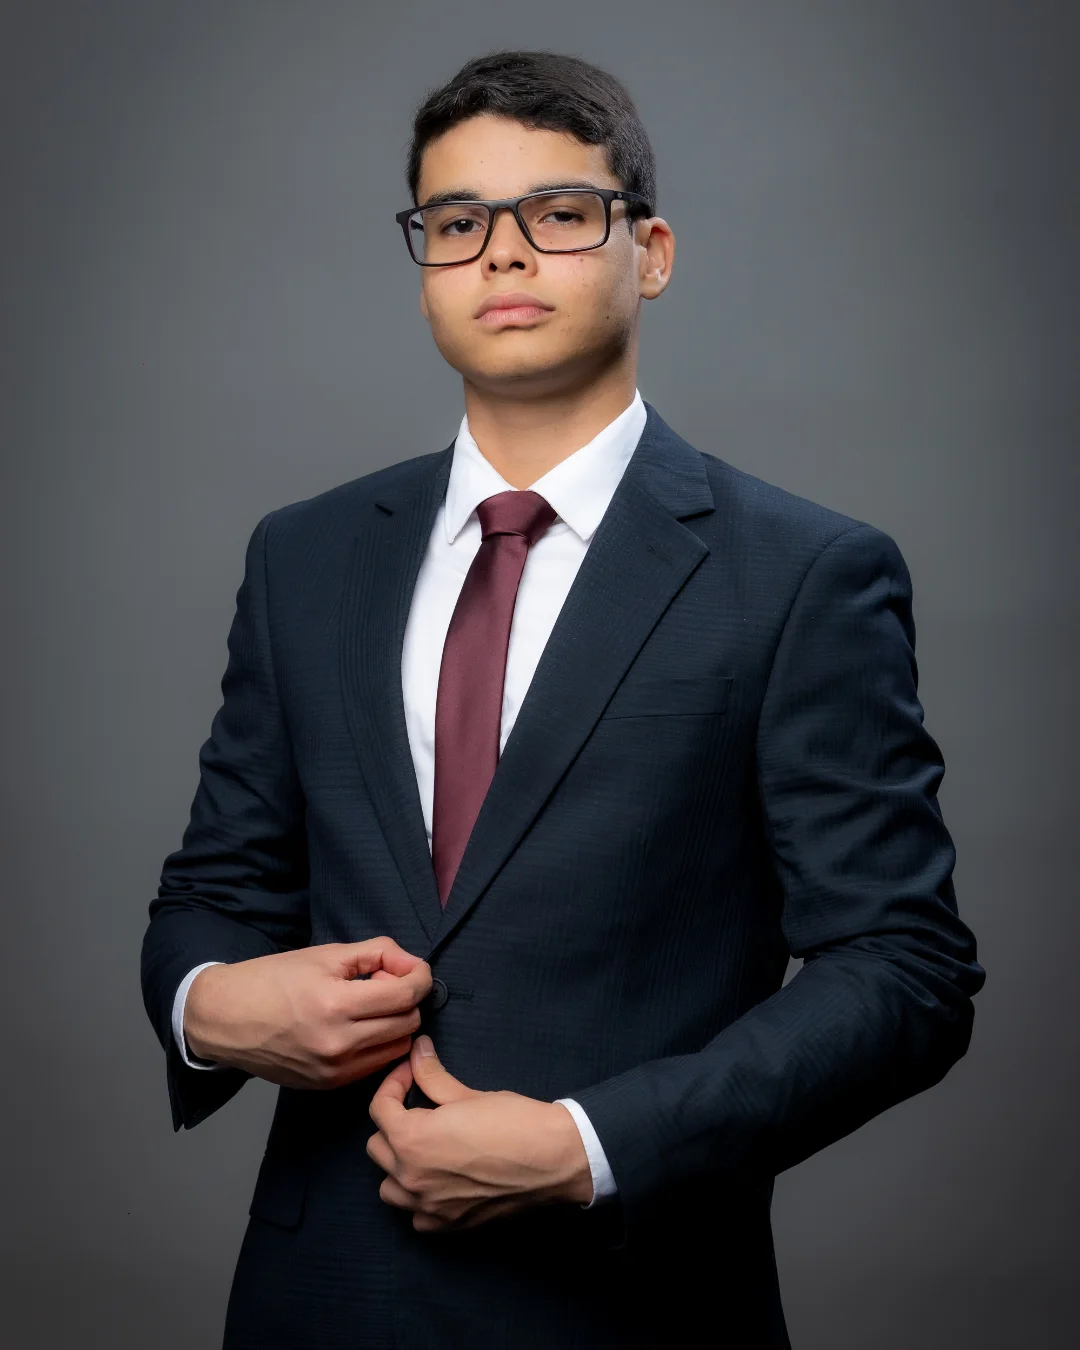
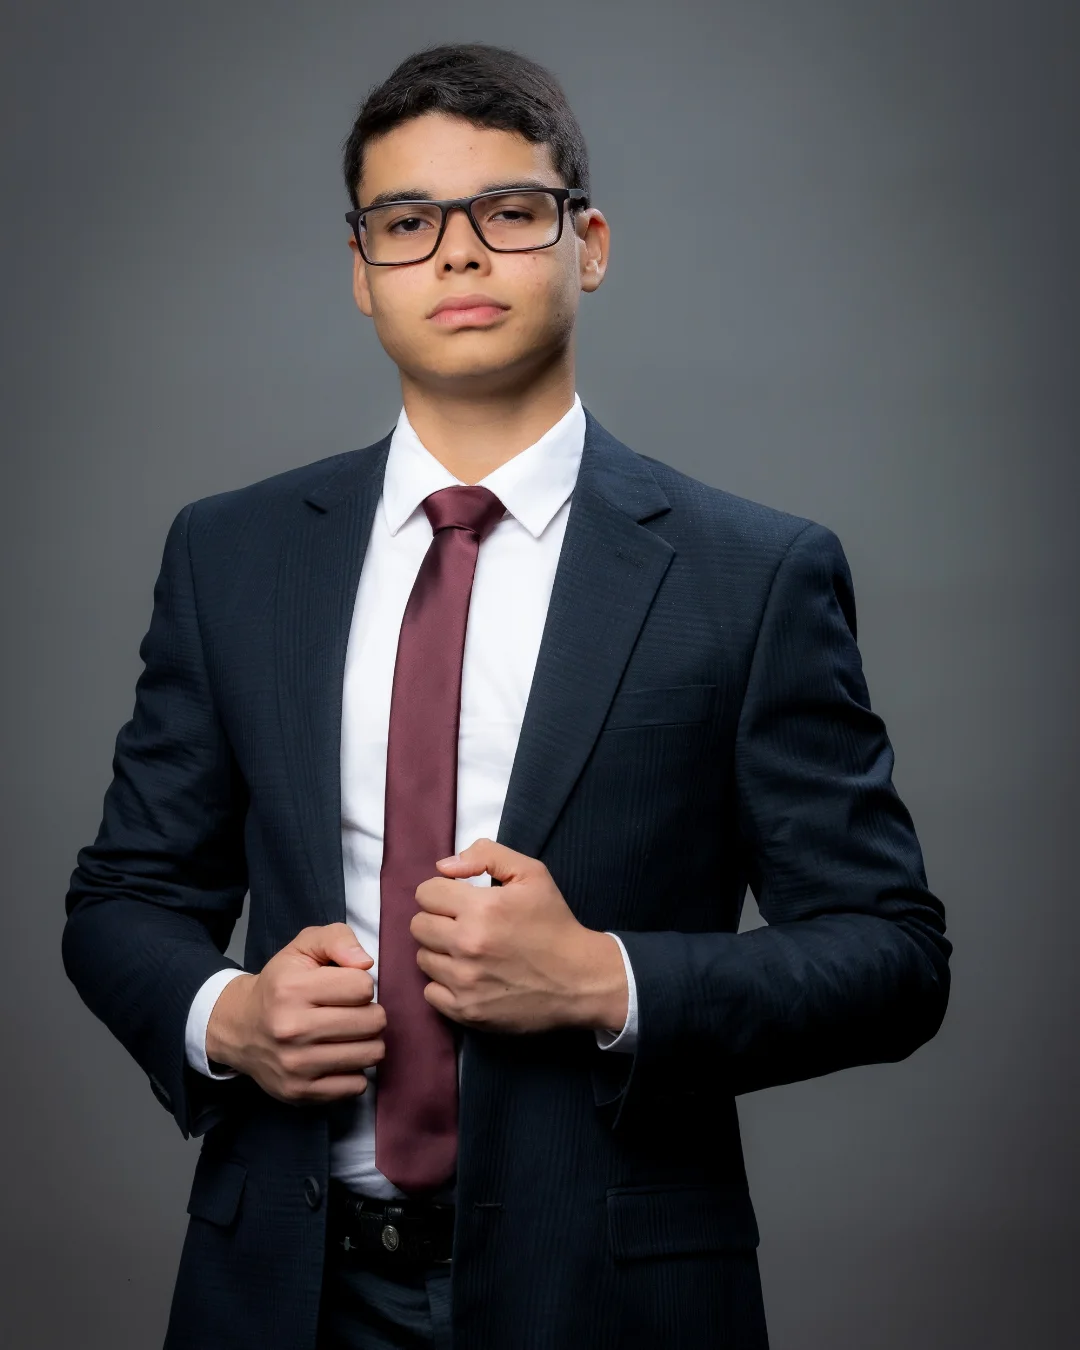
wip

diff --git a/index.html b/index.html
@@ -14,7 +14,7 @@
     <meta property="og:locale" content="pt_BR">
     <meta property="og:title" content="Charles Vinícius | Redação, concursos e estratégia">
     <meta property="og:description" content="Preparação com método. Resultado com propósito. Redação, discursivas e mentoria para concursos.">
-    <meta property="og:image" content="images/vinif.webp">
+    <meta property="og:image" content="images/vinif.webp?v=687bb77f98">
     <link rel="manifest" href="manifest.webmanifest">
     <link rel="icon" href="favicon.ico?v=3" sizes="48x48">
     <link rel="icon" href="icon.svg?v=3" type="image/svg+xml">
@@ -22,7 +22,7 @@
     <link rel="apple-touch-icon" href="apple-touch-icon.png?v=3">
     <link rel="preload" href="assets/fonts/barlow-400.ttf" as="font" type="font/ttf" crossorigin>
     <link rel="preload" href="assets/fonts/bodoni-moda-600.ttf" as="font" type="font/ttf" crossorigin>
-    <link rel="preload" href="images/vinif.webp" as="image" fetchpriority="high">
+    <link rel="preload" href="images/vinif.webp?v=687bb77f98" as="image" fetchpriority="high">
     <link rel="stylesheet" href="assets/style.css?v=4">
     <script src="assets/main.js?v=1" defer></script>
   </head>
@@ -31,7 +31,7 @@
   <a class="skip-link" href="#conteudo">Pular para o conteúdo</a>
   <main id="conteudo" tabindex="-1">
   <section class="hero ruled" id="inicio" aria-labelledby="hero-title">
-    <img class="hero__portrait" src="images/vinif.webp" alt="Charles Vinícius de óculos, terno e gravata vinho" width="1080" height="1350" fetchpriority="high">
+    <img class="hero__portrait" src="images/vinif.webp?v=687bb77f98" alt="Charles Vinícius de óculos, terno e gravata vinho" width="1080" height="1350" fetchpriority="high">
     <div class="hero__shade" aria-hidden="true"></div>
     <header class="header">
       <a class="brand" href="#inicio" aria-label="Charles Vinícius — início"><span class="brand__monogram">Prof.</span><span class="brand__name">Charles<br>Vinícius</span></a>
